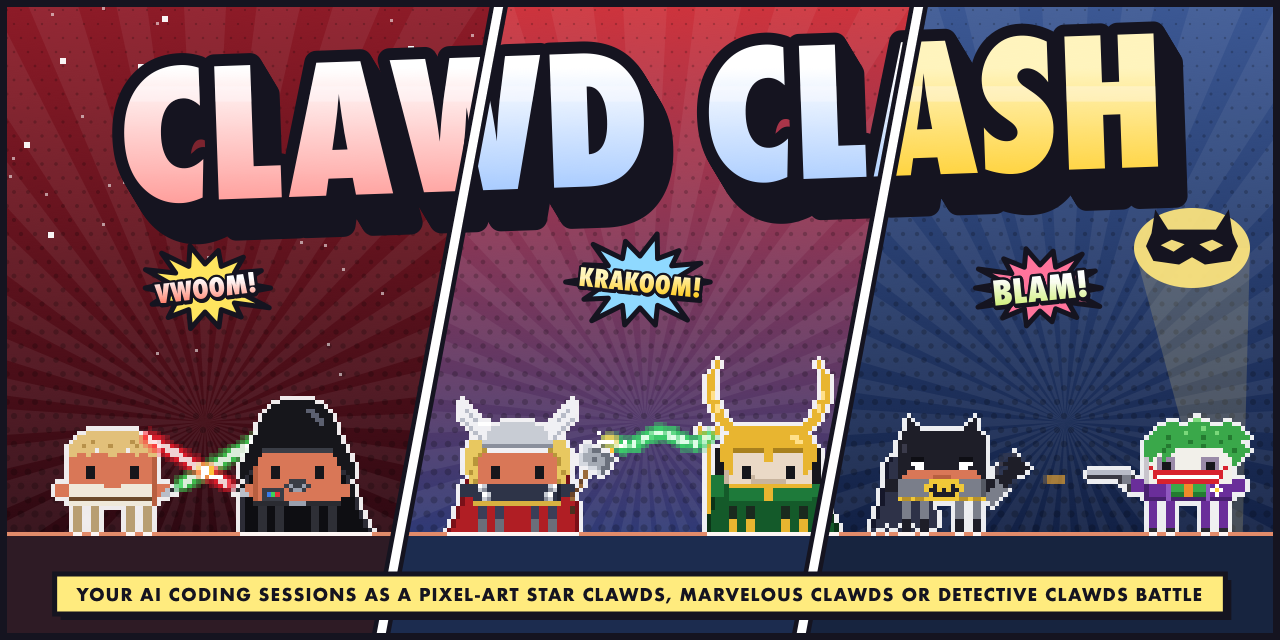
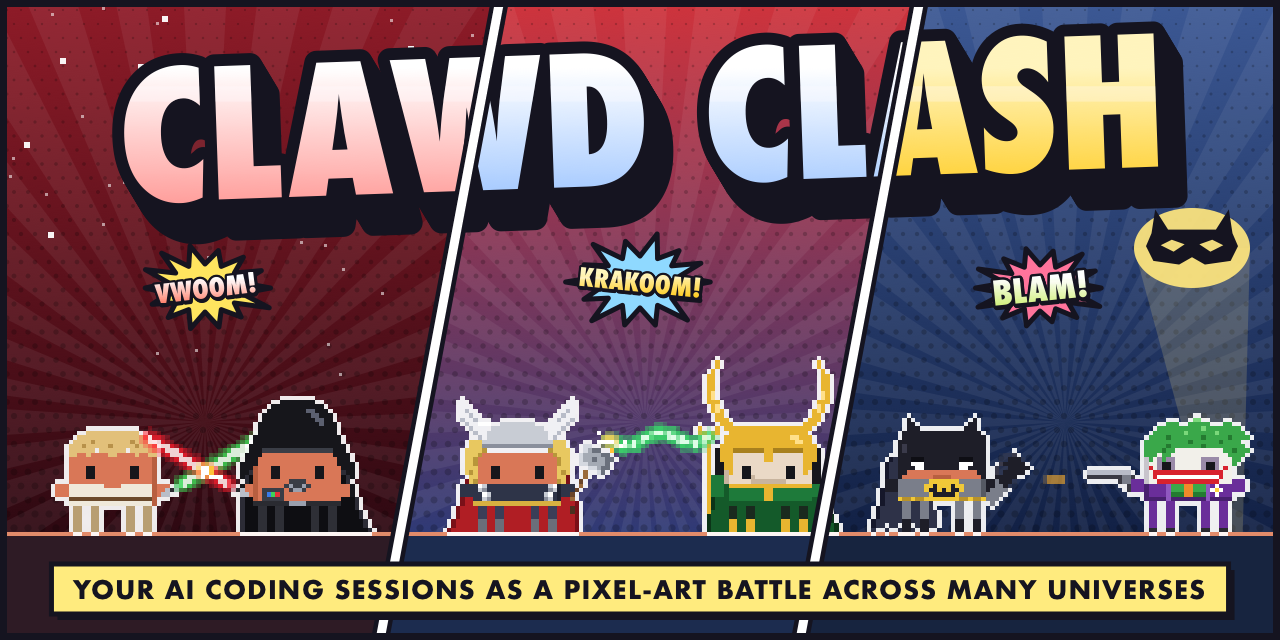
docs(social): the preview's caption names no universes
It read "a pixel-art Star Clawds, Marvelous Clawds or Detective Clawds
battle", out of date since Doctor Clawd and more so with The Clawd Files.
Now "Your AI coding sessions as a pixel-art battle across many
universes", which won't need changing as more are added. Upload the new
docs/social-preview.png in GitHub's settings to use it.

Changed region(s): [[0.0312, 0.875, 0.9688, 0.9688]]

diff --git a/Tools/MakeSocial/main.swift b/Tools/MakeSocial/main.swift
@@ -217,7 +217,7 @@ for i in 1...2 {
 }
 
 // The tagline in a caption box, along the bottom.
-let tagline = "Your AI coding sessions as a pixel-art Star Clawds, Marvelous Clawds or Detective Clawds battle"
+let tagline = "Your AI coding sessions as a pixel-art battle across many universes"
 /// The tagline at the largest size (up to 25 pt) that fits the cover with a margin.
 func taglineText(_ size: CGFloat) -> NSAttributedString {
     let font = NSFont(name: "Futura-Bold", size: size) ?? .boldSystemFont(ofSize: size)

diff --git a/CHANGELOG.md b/CHANGELOG.md
@@ -23,6 +23,7 @@ Doctor Clawd, the fourth, was made for Clawd Clash ([doctor-clawd](https://githu
 - **The Clawd Files' own transitions**, ten of them, drawn in the app's pixel art in the show's cold greens and blue-greys: the Black Oil creeping up the walls against gravity and draining off the new place; a huge eye with the old place in its pupil, blinking and diving into the new one; the old place filed as a black-and-white photo in a case file under redacted pages and a TOP SECRET stamp; an old CRT losing sync, with surveillance stills and static; a saucer's beam washing everything out; two flashlight beams crossing in the dark; a fog of cigarette smoke with the Capitol and men in suits in it; a surveillance satellite pulling back to a map and diving on the new place (more often on long trips); rows of the picture sliding and stretching into a line; and, now and then, the whole opening titles: the saucer, the eye, the warped face, the ghost in the corridor, the hand in red light, and racing clouds with THE TRUTH IS OUT THERE parting on the new place. Each comes up more often with its people on screen (the smoke with the Cigarette-Smoking Clawd, the CRT with the Lone Gunclawds, the case file with the FBI…) or at its own places. `Tools/Transitions` renders all ten between two Clawd Files places, and with `W=960 H=224` at about the size of the window's scene.
 - **A polish pass over The Clawd Files** before its docs and trailer are rendered. Characters: the Jersey Devil is a hunched creature on all fours, the Flukeman a segmented worm with a sucker mouth, the Mothmen's pointed leafy hood a rounded mossy one; the Bounty Hunter's shift peaks on a clear Scrawly; Kersh and the Well-Manicured Clawd fight (a rolled-up case file, a little pistol); Cecil L'ively throws fireballs and Tithonus fires his camera flash; Tooms keeps all four legs while he squeezes; and a few dozen smaller fixes (Skinnard's hand, Einstine's folded arms, Lanky's alien T-shirt, the Colonist's whole coat, the Conundrum's jigsaw, Daggoo's fish…). Places: furniture in the indoor rooms in scale with the cast, the club's smoke, Skinnard's and the sewers' screen-saver walls filled, jagged Antarctic ridges, night skies with moons, clouds and searching helicopters, the railcar's hatch and fans, a warm street lamp, a strongman and a painted Ferris wheel in Gibsonton, Lake Okobogee's reeds and jetty and a bigger Big Blue, the Mutato's steep roof. Rides: the sedan is a proper saloon with a boot, and the helicopter's blades and the saucer lose their stray outline. Missing time: an agent being taken stops fighting, and nobody fires at them until they're set down. Transitions: the satellite's map has real coastlines, and the lettering holds up in the window.
 - **The Clawd Files in the README:** a column in the universe table, its cast and places sheets, its desktop line-up and a social preview (`Tools/RenderDocs` draws them: `roster-the-clawd-files.png`, `locations-the-clawd-files.png`, `desktop-the-clawd-files.png`, `social-preview-the-clawd-files.png`), its transitions in the screen-saver paragraph. The README, `llms.txt` and every trailer's end card no longer say how many universes there are ("One of many universes in Clawd Clash"), so nothing goes stale when another is added. `llms.txt` describes it too.
+- **Clawd Clash's social preview** (`docs/social-preview.png`, `Tools/MakeSocial`) says "Your AI coding sessions as a pixel-art battle across many universes" instead of naming three of them.
 - **The app icon has a flying saucer in it**, from The Clawd Files, hovering in the top-left sky with its beam on, so every universe is on the icon.
 - **Typed captions.** In The Clawd Files the place's name types itself in a letter at a time once a transition is over, with where it is after it ("THE X-FILES OFFICE · FBI HEADQUARTERS, WASHINGTON, D.C."), the way every scene opens in the show: in the window's title bar and on two lines in the screen saver's corner.
 
